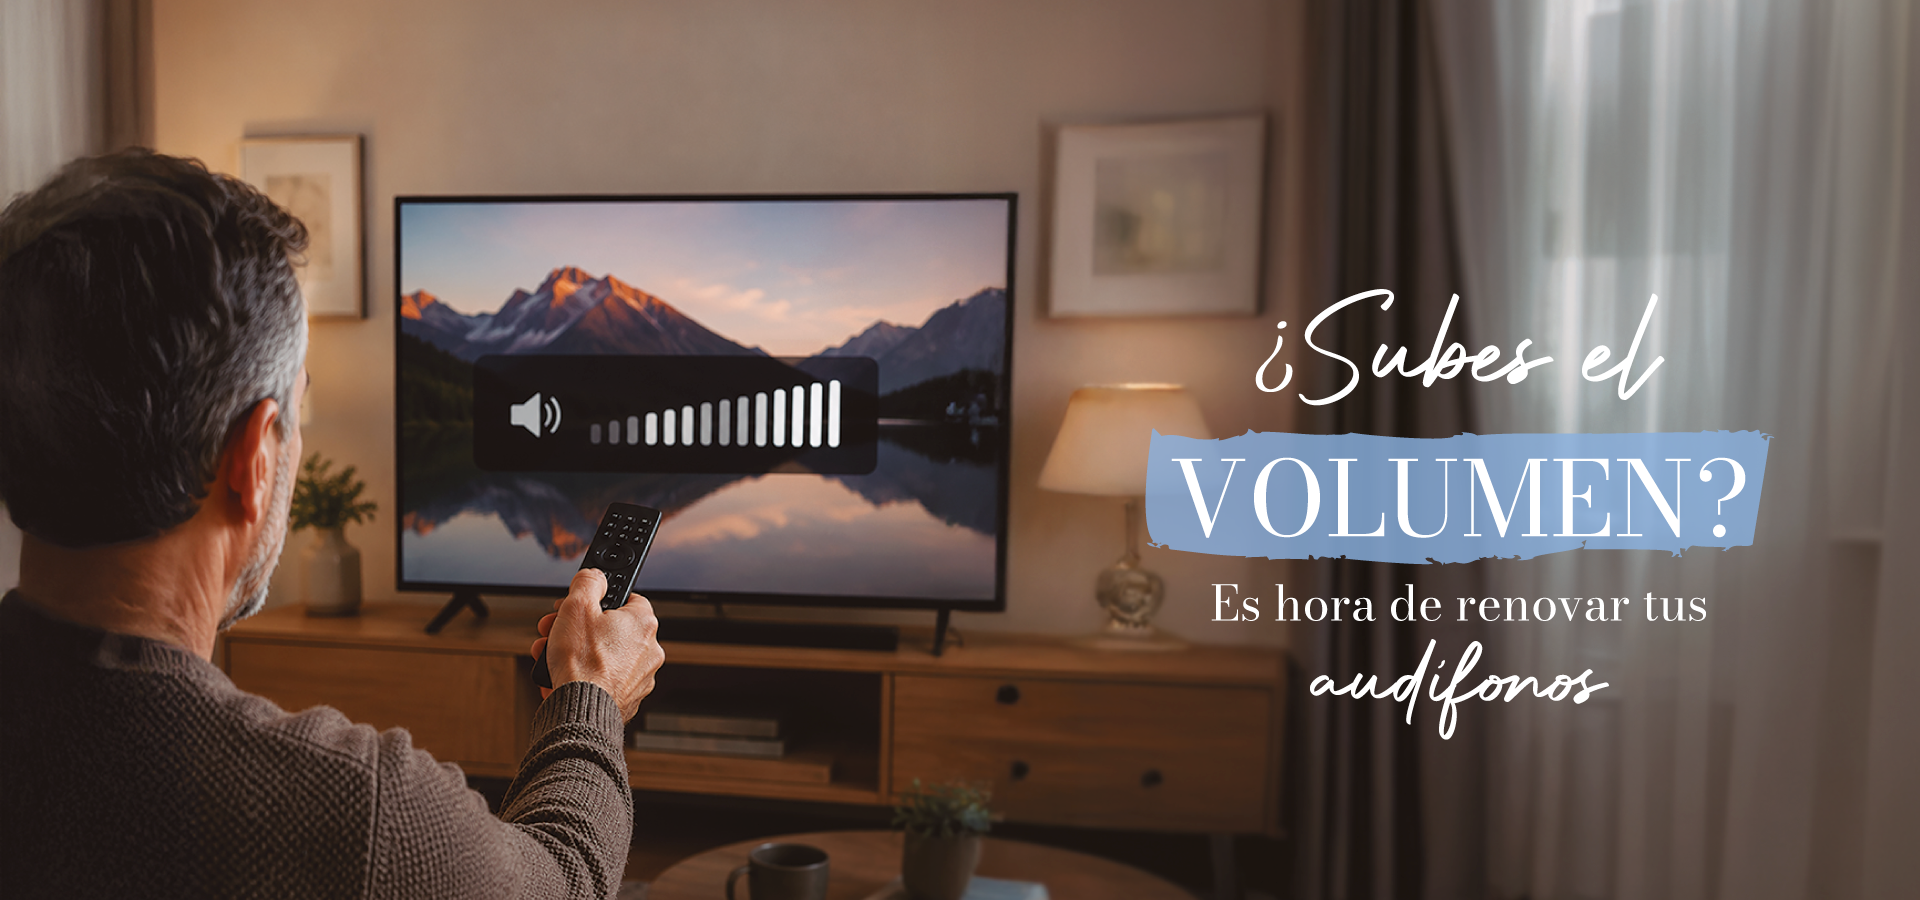
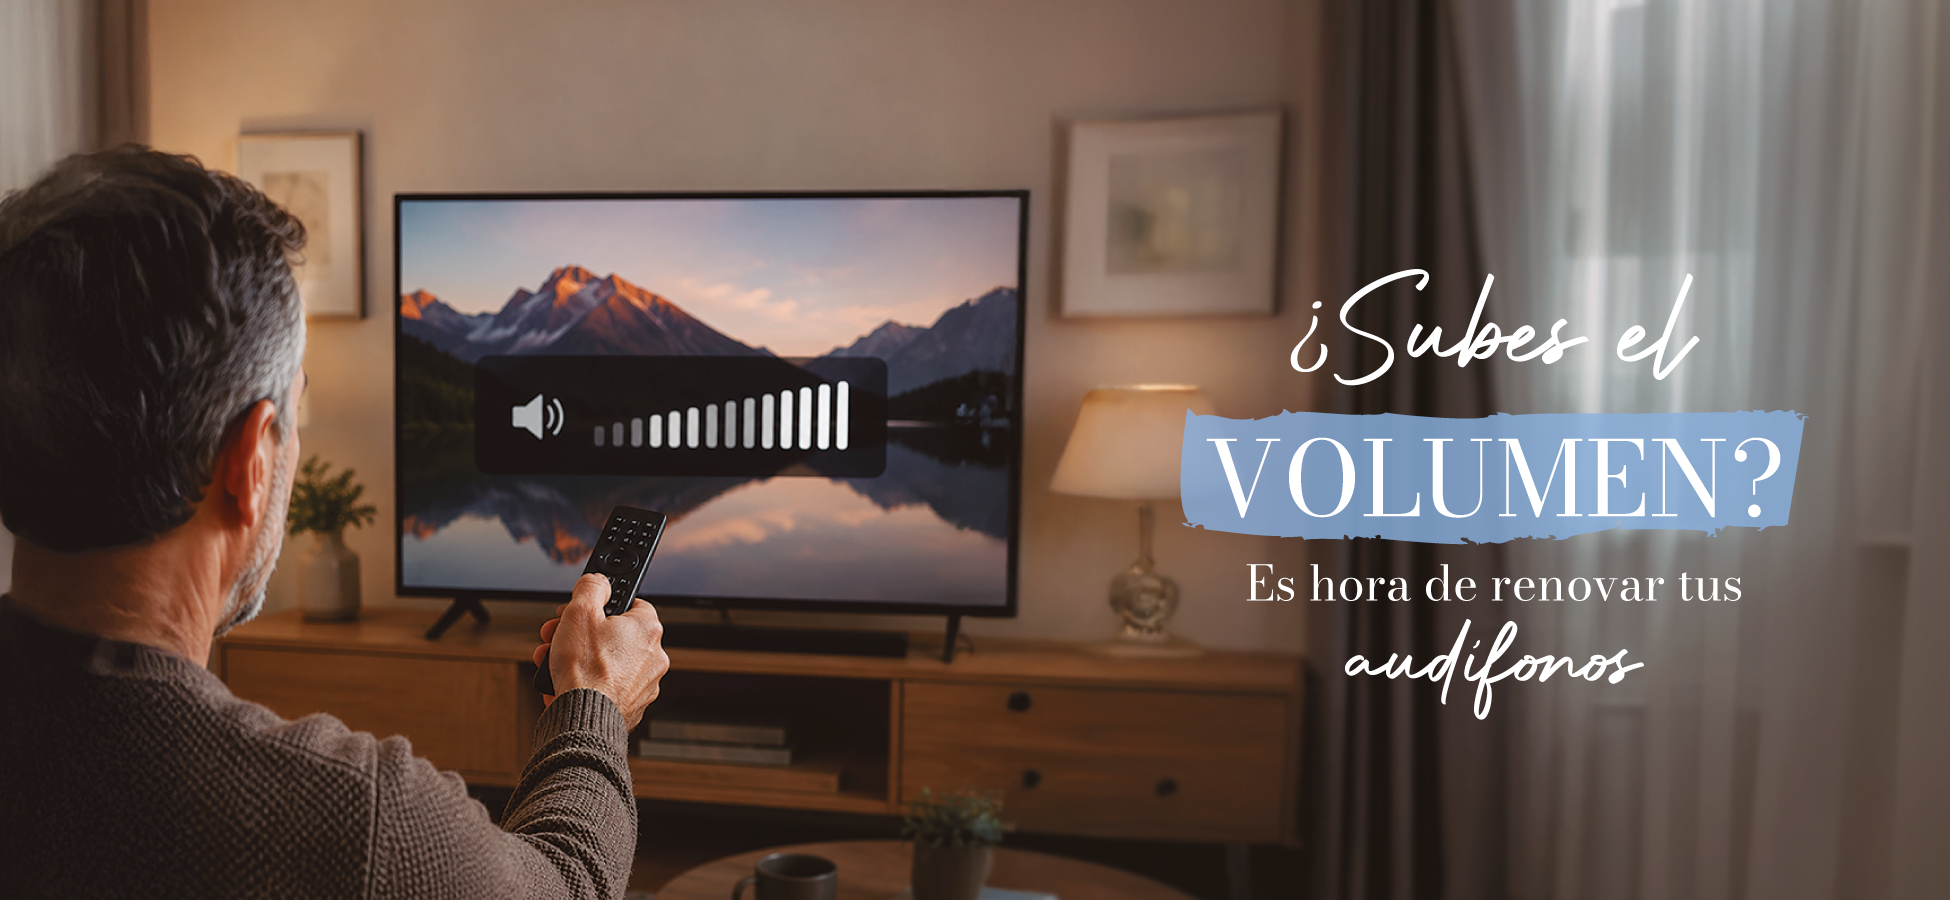
Refactor: redimensión de imágenes

diff --git a/resources/views/pages/plan-renove/index.blade.php b/resources/views/pages/plan-renove/index.blade.php
@@ -43,7 +43,7 @@
 
         <div class="w-100 d-lg-flex flex-column align-items-center text-center">
             <div class="w-100">
-                <img class="w-100"
+                <img class="w-auto"
                     src="{{ asset($data['rutaAsset'] . 'assets/img/plan-renove/' . $data['tipo_dispositivo'] . '/' . $data['idioma'] . '/img1.png') }}">
             </div>
         </div>
@@ -53,7 +53,7 @@
                 <img class="titulo_tu_vista1 mt-3"
                     src="{{ asset($data['rutaAsset'] . 'assets/img/plan-renove/' . $data['tipo_dispositivo'] . '/' . $data['idioma'] . '/img2.png') }}">
             </div>
-            <div class="w-50 text-width">
+            <div class="w-100 text-width">
                 <img class="titulo_tu_vista1 {{ $data['tipo_dispositivo'] != 'mobile' ? 'mt-3' : 'mb-3' }}"
                     src="{{ asset($data['rutaAsset'] . 'assets/img/plan-renove/' . $data['tipo_dispositivo'] . '/' . $data['idioma'] . '/img3.png') }}">
             </div>

diff --git a/lang/ca/plan-renove.php b/lang/ca/plan-renove.php
@@ -1,8 +1,7 @@
 <?php
+
 return [
-    'parrafo-1' => "Sentir bé t'ajuda a comunicar-te millor i a sentir-te més actiu en el teu dia a dia. Quan l'audició canvia, seguir converses pot resultar més cansat i afectar el teu benestar.",
-    'parrafo-1.1' => "Mantenir una vida activa, social i comunicar-te amb facilitat ajudar a cuidar la teva memòria i la teva concentració.",
-    'parrafo-1.2' => "La memòria i la concentració comencen per una bona salut auditiva.",
+    'parrafo-1' => 'Con el paso del tiempo, <b>tu audición puede cambiar</b> y tus audífonos pueden dejar de responder igual de bien a tus necesidades. <b>En Natural Audio te acompañamos</b> durante todo el proceso para ayudarte a encontrar la solución auditiva que mejor se adapte a ti.',
     'Politicas-privacidad' => 'Polítiques de privacitat i avís legal',
     'Politicas-cookies' => 'Política de cookies'
 ];
